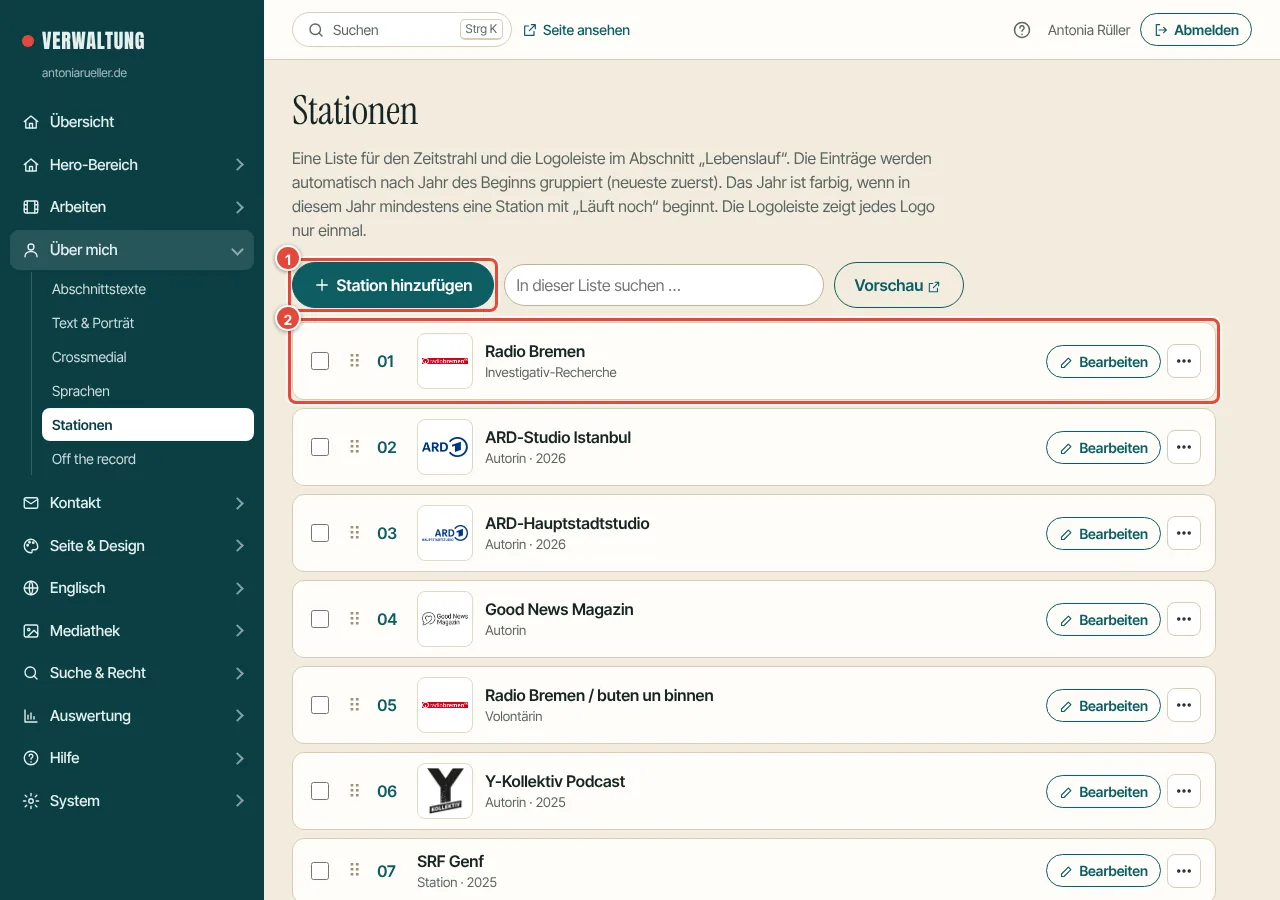
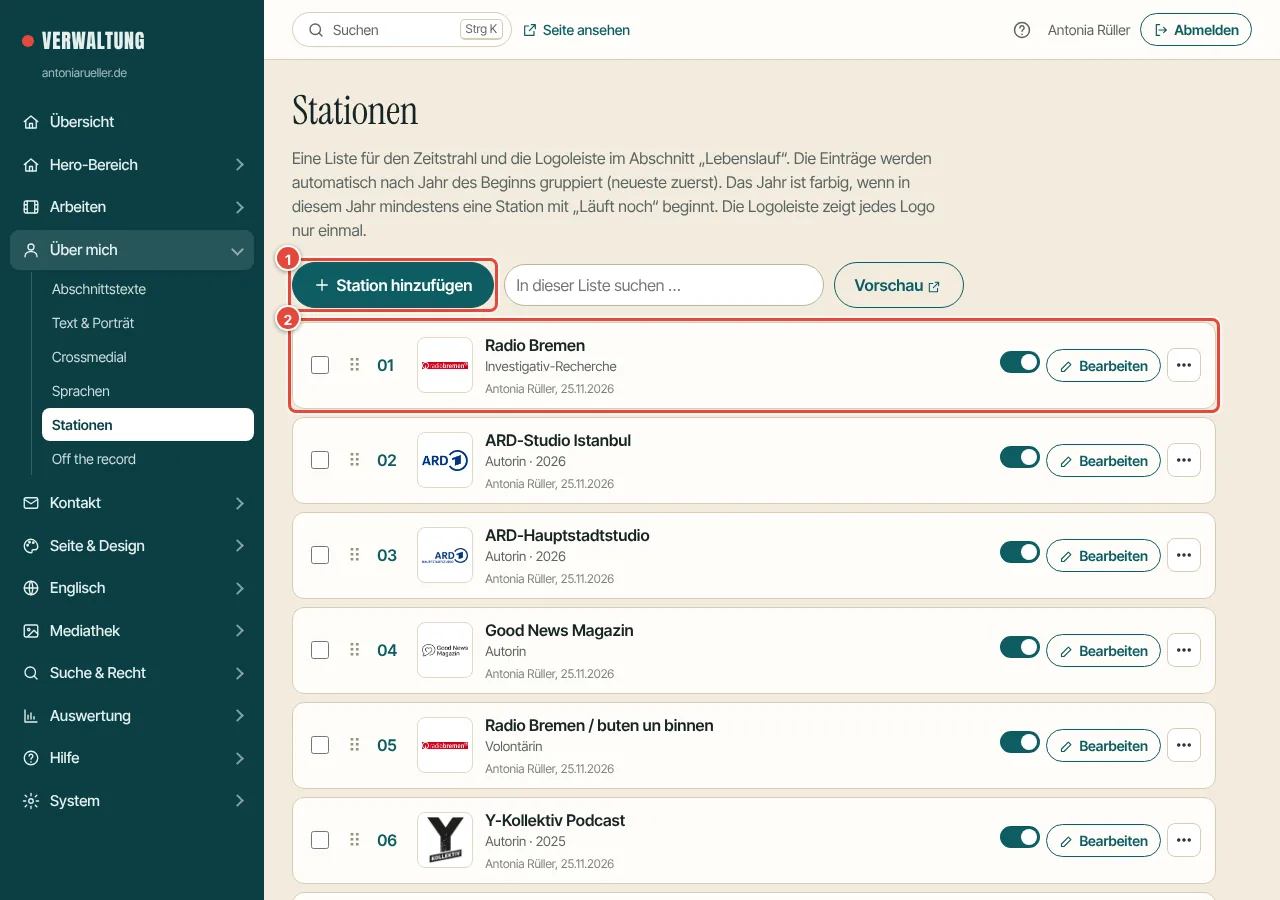
Ein-/Ausblenden per Schieberegler bei allen Listen, Häkchen aus den Formularen entfernt (v77)
Claude-Session: https://claude.ai/code/session_01RYLcizMBQ5BQguX1G1CHxx

Changed region(s): [[0.2188, 0.3733, 0.9688, 0.9956]]

diff --git a/sites/antoniarueller/lib/schema.php b/sites/antoniarueller/lib/schema.php
@@ -142,7 +142,7 @@ function schema(): array
             f('text', 'other_label', 'Weitere Plattform (Name)', ['max' => 30]),
             f('url', 'other_url', 'Weitere Plattform (Link)'),
             f('select', 'wave', 'Tonspur-Darstellung', ['options' => wave_options(), 'default' => 'auto', 'hint' => 'Nur Optik. „Automatisch“ lässt die Tonspuren der Folgen der Reihe nach wechseln.']),
-            f('bool', 'published', 'Auf der Seite anzeigen', ['default' => true]),
+            f('bool', 'published', 'Auf der Seite anzeigen', ['default' => true, 'hidden' => true]),
         ],
     ];
     $s['collections']['cv'] = [
@@ -158,6 +158,7 @@ function schema(): array
             f('text', 'when_label', 'Zeitangabe überschreiben (optional)', ['max' => 120, 'hint' => 'Leer = automatisch aus Beginn/Ende, z. B. „06/2016 — 06/2018“.']),
             f('text', 'desk', 'Redaktion (optional)', ['max' => 40, 'hint' => 'Freitext, z. B. „TV“, „Radio“ oder „Investigativ-Team“. Erscheint auf der Karte.']),
             f('url', 'url', 'Link (optional)', ['hint' => 'Wenn gesetzt, ist das Logo in der Logoleiste anklickbar.']),
+            f('bool', 'published', 'Auf der Seite anzeigen', ['default' => true, 'hidden' => true]),
         ],
     ];
     $s['collections']['before'] = [
@@ -165,6 +166,7 @@ function schema(): array
         'fields' => [
             f('markup', 'text', 'Text', ['required' => true, 'max' => 160, 'hint' => MARKUP_HINT]),
             f('text', 'side', 'Zusatz rechts', ['max' => 160]),
+            f('bool', 'published', 'Auf der Seite anzeigen', ['default' => true, 'hidden' => true]),
         ],
     ];
     $s['collections']['crossmedia'] = [
@@ -173,6 +175,7 @@ function schema(): array
             f('icon', 'icon', 'Symbol', ['options' => media_options(), 'default' => 'text']),
             f('text', 'label', 'Bezeichnung', ['required' => true, 'max' => 30]),
             f('text', 'outlets', 'Redaktionen', ['max' => 200, 'hint' => 'z. B. „buten un binnen · WELT · Good News“']),
+            f('bool', 'published', 'Auf der Seite anzeigen', ['default' => true, 'hidden' => true]),
         ],
     ];
     $s['collections']['languages'] = [
@@ -180,6 +183,7 @@ function schema(): array
         'fields' => [
             f('text', 'name', 'Sprache', ['required' => true, 'max' => 40, 'tr' => true]),
             f('text', 'note', 'Zusatz (z. B. „im Aufbau“)', ['max' => 40]),
+            f('bool', 'published', 'Auf der Seite anzeigen', ['default' => true, 'hidden' => true]),
         ],
     ];
     $s['collections']['offrecord'] = [
@@ -188,6 +192,7 @@ function schema(): array
         'fields' => [
             f('text', 'question', 'Frage', ['required' => true, 'max' => 120]),
             f('textarea', 'answer', 'Antwort', ['max' => 400]),
+            f('bool', 'published', 'Auf der Seite anzeigen', ['default' => true, 'hidden' => true]),
         ],
     ];
     $s['collections']['questions'] = [
@@ -195,6 +200,7 @@ function schema(): array
         'fields' => [
             f('text', 'number', 'Nummer', ['max' => 4, 'default' => '01']),
             f('markup', 'text', 'Frage', ['required' => true, 'max' => 240, 'hint' => MARKUP_HINT]),
+            f('bool', 'published', 'Auf der Seite anzeigen', ['default' => true, 'hidden' => true]),
         ],
     ];
     $s['collections']['social'] = [
@@ -203,7 +209,7 @@ function schema(): array
         'fields' => [
             f('text', 'label', 'Beschriftung', ['required' => true, 'max' => 30, 'tr' => false, 'hint' => 'z. B. LinkedIn, Instagram, Bluesky, Mastodon, YouTube, Xing.']),
             f('url', 'url', 'Link zum Profil', ['required' => true]),
-            f('bool', 'published', 'Anzeigen', ['default' => true]),
+            f('bool', 'published', 'Auf der Seite anzeigen', ['default' => true, 'hidden' => true]),
         ],
     ];
     $s['collections']['nav'] = [
@@ -213,6 +219,7 @@ function schema(): array
             f('text', 'label', 'Beschriftung', ['required' => true, 'max' => 30]),
             f('select', 'anchor', 'Springt zu', ['options' => anchor_options(), 'default' => 'arbeiten']),
             f('bool', 'desktop', 'Auch in der Kopfzeile am Desktop zeigen', ['default' => true]),
+            f('bool', 'published', 'Auf der Seite anzeigen', ['default' => true, 'hidden' => true]),
         ],
     ];
 

diff --git a/sites/antoniarueller/tools/selftest.php b/sites/antoniarueller/tools/selftest.php
@@ -1303,6 +1303,35 @@ if ($layRow !== false) {
 }
 save_layout();
 reset_content_cache();
+// Ein-/Ausblenden per Schieberegler in der Liste bei allen Einträgen (kein Häkchen mehr im Formular)
+echo "Ein-/Ausblenden\n";
+$pubOk = true;
+foreach (['clips', 'episodes', 'social', 'cv', 'before', 'crossmedia', 'languages', 'offrecord', 'questions', 'nav'] as $pc) {
+    $lb = req('GET', "$base/admin/?p=list&c=$pc")['body'];
+    $eb = req('GET', "$base/admin/?p=edit&c=$pc")['body'];
+    $pubOk = $pubOk && str_contains($lb, 'tgl-f') && !str_contains($eb, 'name="published"');
+}
+ok($pubOk, 'alle Listen haben den Schieberegler, in keinem Formular steht noch ein Anzeigen-Häkchen');
+$pubPost = ['_csrf' => $tok, 'action' => 'save_item', 'coll' => 'crossmedia', 'label' => 'Ausblendtest', 'outlets' => 'x', 'icon' => 'text', 'mode' => 'publish'];
+req('POST', "$base/admin/", $pubPost);
+req('POST', "$base/admin/", ['_csrf' => $tok, 'action' => 'save_item', 'coll' => 'languages', 'name' => 'Ausblendsprache', 'mode' => 'publish']);
+req('POST', "$base/admin/", ['_csrf' => $tok, 'action' => 'save_item', 'coll' => 'cv', 'org' => 'Ausblendorg', 'from_y' => '2036', 'mode' => 'publish']);
+$pgP = req('GET', "$base/")['body'];
+ok(str_contains($pgP, 'Ausblendtest') && str_contains($pgP, 'Ausblendsprache') && str_contains($pgP, 'Ausblendorg'), 'neue Einträge sind ohne Häkchen sichtbar');
+foreach (['crossmedia' => 'Ausblendtest', 'languages' => 'Ausblendsprache', 'cv' => 'Ausblendorg'] as $pc => $needle) {
+    $pid = (int)q("SELECT id FROM ar_items WHERE coll = ? AND data LIKE ?", [$pc, '%' . $needle . '%'])->fetchColumn();
+    req('POST', "$base/admin/", ['_csrf' => $tok, 'action' => 'toggle_pub', 'id' => $pid, 'to' => '0', 'ajax' => '1']);
+}
+$pgP2 = req('GET', "$base/")['body'];
+ok(!str_contains($pgP2, 'Ausblendtest') && !str_contains($pgP2, 'Ausblendsprache') && !str_contains($pgP2, 'Ausblendorg') && !str_contains(req('GET', "$base/llms.txt")['body'], 'Ausblendorg'), 'ausgeblendete Einträge fehlen auf der Seite (Crossmedial, Sprachen, Stationen)');
+$pidc = (int)q("SELECT id FROM ar_items WHERE coll = 'cv' AND data LIKE '%Ausblendorg%'")->fetchColumn();
+req('POST', "$base/admin/", ['_csrf' => $tok, 'action' => 'save_item', 'coll' => 'cv', 'id' => $pidc, 'org' => 'Ausblendorg', 'from_y' => '2036', 'mode' => 'publish']);
+ok(!str_contains(req('GET', "$base/")['body'], 'Ausblendorg'), 'Speichern über das Formular blendet einen ausgeblendeten Eintrag nicht wieder ein');
+foreach (q("SELECT id FROM ar_items WHERE data LIKE '%Ausblend%' AND coll IN ('crossmedia','languages','cv')")->fetchAll() as $row) {
+    req('POST', "$base/admin/", ['_csrf' => $tok, 'action' => 'trash', 'id' => $row['id']]);
+    req('POST', "$base/admin/", ['_csrf' => $tok, 'action' => 'purge', 'id' => $row['id']]);
+}
+reset_content_cache();
 // Symbol-Auswahl bei Kategorien und Crossmedial
 $cmForm = req('GET', "$base/admin/?p=edit&c=crossmedia")['body'];
 $trForm = req('GET', "$base/admin/?p=edit&c=tracks")['body'];

diff --git a/sites/antoniarueller/admin/forms.php b/sites/antoniarueller/admin/forms.php
@@ -373,6 +373,10 @@ function list_embedded(array $user, array $def): void
         return;
     }
     $rows = items($wc, false, true);
+    $hasPubW = false;
+    foreach ($wdef['fields'] as $wf) {
+        $hasPubW = $hasPubW || $wf['key'] === 'published';
+    }
     echo '<section class="embedlist"><h2 class="embed-h">' . e($wdef['label']) . '</h2>';
     if (!empty($wdef['help'])) {
         echo '<p class="lead">' . e($wdef['help']) . '</p>';
@@ -384,7 +388,7 @@ function list_embedded(array $user, array $def): void
     }
     echo '<ol class="rows sortable cards" id="rows-embed" data-coll="' . e($wc) . '" data-csrf="' . e($user['csrf']) . '" data-url="' . e(a()) . '">';
     foreach ($rows as $i => $r) {
-        list_row($user, $wdef, $wc, $r, $i, count($rows), '', false, true);
+        list_row($user, $wdef, $wc, $r, $i, count($rows), '', $hasPubW, true);
     }
     echo '</ol></section>';
 }

diff --git a/sites/antoniarueller/lib/page.php b/sites/antoniarueller/lib/page.php
@@ -106,15 +106,15 @@ if ($page === 'impressum' || $page === 'datenschutz') {
     send_html((string)ob_get_clean(), (bool)$seo['noindex'], $cacheKey);
 }
 
-$nav = items('nav');
-$questions = items('questions');
+$nav = items_shown('nav');
+$questions = items_shown('questions');
 $tracks = items('tracks');
 $episodes = array_values(array_filter(items('episodes'), fn($e) => $e['published']));
-$cvRows = items('cv');
-$before = items('before');
-$cross = items('crossmedia');
-$langs = items('languages');
-$off = items('offrecord');
+$cvRows = items_shown('cv');
+$before = items_shown('before');
+$cross = items_shown('crossmedia');
+$langs = items_shown('languages');
+$off = items_shown('offrecord');
 $social = array_values(array_filter(array_map(function ($x) {
     $x['url'] = safe_url($x['url']);
     return $x;

diff --git a/sites/antoniarueller/lib/content.php b/sites/antoniarueller/lib/content.php
@@ -114,6 +114,12 @@ function items(string $coll, bool $trash = false, bool $admin = false): array
     return array_map(fn($r) => row_to_item($r, $def['fields'], $admin), $rows);
 }
 
+/** Einträge einer Liste, die auf der Seite angezeigt werden (ausgeblendete entfallen). */
+function items_shown(string $coll): array
+{
+    return array_values(array_filter(items($coll), fn($r) => !array_key_exists('published', $r) || !empty($r['published'])));
+}
+
 /** Alle sichtbaren Einträge in EINER Abfrage laden (statt einer pro Liste). */
 function items_rows(bool $reset = false): array
 {

diff --git a/sites/antoniarueller/lib/seo_files.php b/sites/antoniarueller/lib/seo_files.php
@@ -89,7 +89,7 @@ function llms_txt(): ?string
         }
         $md .= "\n";
     }
-    $stations = array_values(array_unique(array_map(fn($s) => $s['org'], items('cv'))));
+    $stations = array_values(array_unique(array_map(fn($s) => $s['org'], items_shown('cv'))));
     if ($stations) {
         $md .= "## Stationen\n\n" . implode(', ', $stations) . ".\n\n";
     }

diff --git a/sites/antoniarueller/templates/notfound.php b/sites/antoniarueller/templates/notfound.php
@@ -2,7 +2,7 @@
 /** Inhalt der 404-Seite (wird von templates/legal.php eingebunden). */
 $home = lang_url(current_lang(), '');
 $links = [];
-foreach (items('nav') as $nv) {
+foreach (items_shown('nav') as $nv) {
     if (preg_match('~^[a-z]+$~', (string)$nv['anchor'])) {
         $links[] = ['label' => (string)$nv['label'], 'href' => $home . '#' . $nv['anchor']];
     }

diff --git a/sites/antoniarueller/README.md b/sites/antoniarueller/README.md
@@ -90,6 +90,8 @@ Im Admin unter **SEO & Suche**: Titel, Beschreibung, Vorschaubild, noindex-Schal
 
 ## Lebenslauf: Zeitstrahl und Logoleiste
 
+- Alle Listen (auch Stationen, „Davor“, Crossmedial, Sprachen, Off the record, Leitfragen, Menü) haben den Schieberegler „Anzeigen“ wie die Referenzen: Feld `published` (im Formular verborgen, Standard „an“); die Seite zeigt nur `items_shown()`. Kategorien (Spuren) haben ihn nicht, weil Referenzen daran hängen.
+
 - Backend-Menü: „Podcast-Folgen“ steht unter Arbeiten; „Stationen“ (mit der Liste „Davor“ darunter, Option `with` der Sammlung) und „Off the record“ stehen unter Über mich. Die Überschriften „Crossmedial“ und „Sprachen“ liegen unter Abschnitte → Über mich (Migration `about_labels_v1` übernimmt vorhandene Werte). Crossmedial hat das zusätzliche Symbol „Social Media“ (`share`).
 
 - Eine Liste `cv` („Lebenslauf & Stationen“) speist beides: Organisation, Logo (optional), Rolle, Beginn/Ende (Feldtyp `ym`: Jahr Pflicht, Monat optional; gespeichert als „JJJJ“ oder „JJJJ-MM“), „Läuft noch“, Zeitangabe überschreiben, Redaktion (Freitext), Link. Die frühere getrennte Liste „Sender & Redaktionen“ (`stations`) gibt es nicht mehr; die Migration `cv_stations_v1` übernimmt Logo, Redaktion und Link an Lebenslauf-Einträge mit passender Organisation (sonst neuer Eintrag). Die alten Datensätze bleiben unangetastet in `ar_items` (werden aber nicht mehr angezeigt oder gesichert).
